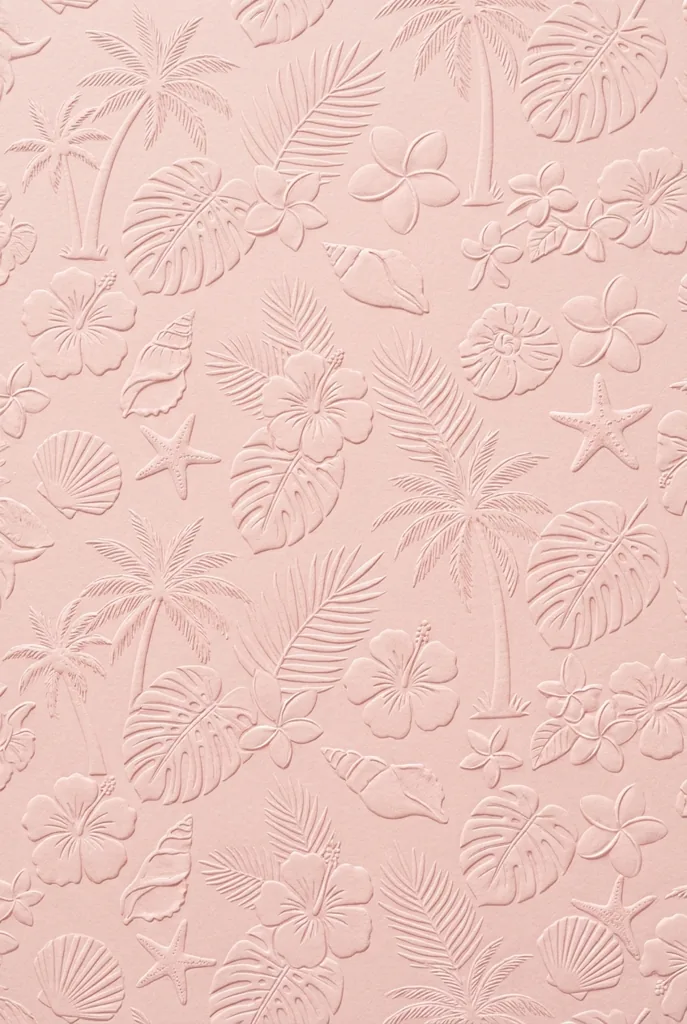
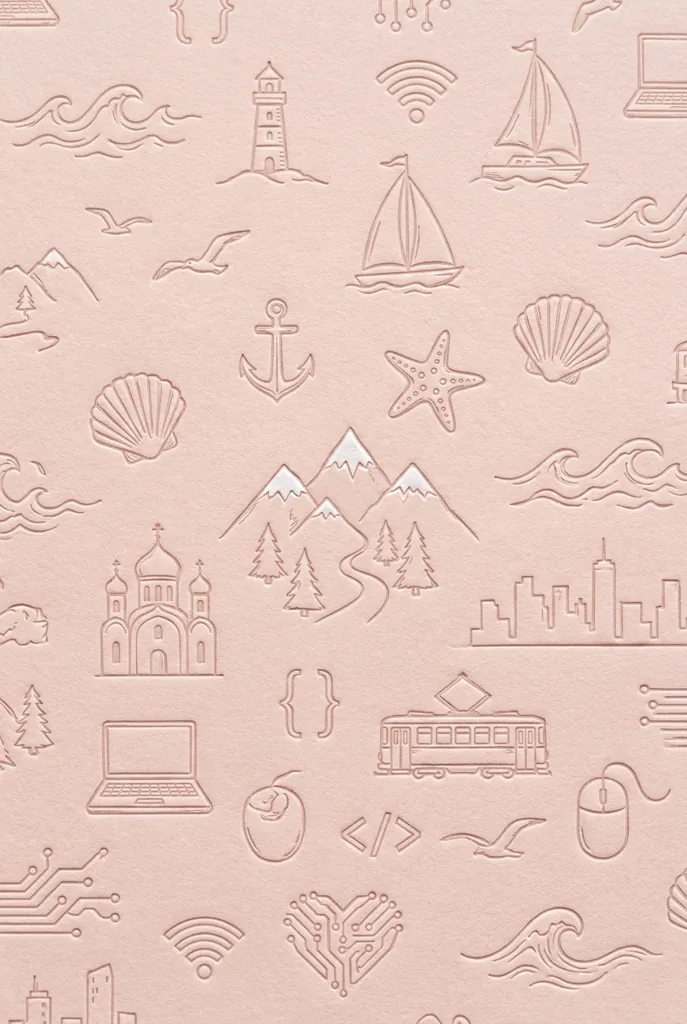
feat: personalised envelope art (Burgas sea, Vitosha, Sofia, IT) + matching seal
- new blind-emboss paper and mountain/sea wreath seal from Gemini (v2 run)
- raised light-gold initials for the darker bronze seal
- tropical set and other variants kept under assets/alt
- cache-busting ?v=2 on asset URLs

diff --git a/styles.css b/styles.css
@@ -57,7 +57,7 @@ body {
   background-size: cover;
   background-position: center;
 }
-.has-paper .paper { background-image: url("assets/paper.webp"); }
+.has-paper .paper { background-image: url("assets/paper.webp?v=2"); }
 
 /* ---------- Envelope interior + light ---------- */
 /* Only visible through the V where the flap was: deep orange at the edges,
@@ -233,7 +233,7 @@ body {
   background-size: min(100vw, 480px) auto;
   background-position: top center;
 }
-.has-paper .flap-front::before { background-image: url("assets/paper.webp"); }
+.has-paper .flap-front::before { background-image: url("assets/paper.webp?v=2"); }
 
 .flap-inside { transform: rotateX(180deg); }
 .flap-inside::before {
@@ -271,9 +271,9 @@ body {
 .has-seal .seal-wax {
   inset: 0;
   border-radius: 0;
-  background: url("assets/seal.webp") center / contain no-repeat;
+  background: url("assets/seal.webp?v=2") center / contain no-repeat;
   box-shadow: none;
-  filter: drop-shadow(0 8px 10px rgba(90, 45, 20, .35));
+  filter: brightness(1.12) saturate(1.1) drop-shadow(0 8px 10px rgba(90, 45, 20, .35));
 }
 
 .seal-shine {
@@ -306,13 +306,13 @@ body {
   line-height: 1;
   padding-top: 2%;
   white-space: nowrap;
-  color: #4a2c05;
-  /* pressed into the wax: dark rim above, warm highlight below, soft inner shade */
+  color: #e9cf8a;
+  /* raised gold on the darker bronze centre: light top edge, dark cast shadow below */
   text-shadow:
-    0 -1px 0 rgba(40, 20, 0, .7),
-    0 1.5px 0 rgba(255, 226, 150, .85),
-    0 0 6px rgba(60, 30, 0, .25);
-  -webkit-text-stroke: .4px rgba(40, 20, 0, .5);
+    0 -1px 0 rgba(255, 244, 205, .55),
+    0 1.5px 1px rgba(30, 15, 0, .85),
+    0 0 8px rgba(30, 15, 0, .35);
+  -webkit-text-stroke: .3px rgba(60, 35, 5, .6);
   pointer-events: none;
 }
 
@@ -329,8 +329,8 @@ body {
 .has-seal .seal-shine {
   inset: 0;
   border-radius: 0;
-  -webkit-mask: url("assets/seal.webp") center / contain no-repeat;
-          mask: url("assets/seal.webp") center / contain no-repeat;
+  -webkit-mask: url("assets/seal.webp?v=2") center / contain no-repeat;
+          mask: url("assets/seal.webp?v=2") center / contain no-repeat;
 }
 
 /* Lit-from-within layer: a brightened, high-contrast copy of the seal, so the raised
@@ -343,7 +343,7 @@ body {
   pointer-events: none;
 }
 .has-seal .seal-lit {
-  background: url("assets/seal-lines.webp") center / contain no-repeat;
+  background: url("assets/seal-lines.webp?v=2") center / contain no-repeat;
   filter: brightness(1.4) drop-shadow(0 0 1.5px rgba(255, 252, 240, 1)) drop-shadow(0 0 5px rgba(255, 230, 160, .9)) drop-shadow(0 0 12px rgba(255, 200, 100, .6));
 }
 .seal-glow {
@@ -438,7 +438,7 @@ body {
   position: absolute;
   inset: 0;
   pointer-events: none;
-  background: url("assets/seal.webp") center / contain no-repeat;
+  background: url("assets/seal.webp?v=2") center / contain no-repeat;
   filter: brightness(1.45) saturate(.45) drop-shadow(0 0 14px rgba(255, 215, 150, .75));
   --sweep-dur: 1.9s;
   --sweep-delay: .9s;

diff --git a/index.html b/index.html
@@ -9,9 +9,9 @@
   <link rel="preconnect" href="https://fonts.gstatic.com" crossorigin>
   <link href="https://fonts.googleapis.com/css2?family=Ballet:opsz@16..72&family=Cormorant+Garamond:ital,wght@0,400;0,500;1,400;1,500;1,600&display=swap" rel="stylesheet">
   <link rel="stylesheet" href="styles.css">
-  <link rel="preload" as="image" href="assets/paper.webp">
-  <link rel="preload" as="image" href="assets/seal.webp">
-  <link rel="preload" as="image" href="assets/seal-lines.webp">
+  <link rel="preload" as="image" href="assets/paper.webp?v=2">
+  <link rel="preload" as="image" href="assets/seal.webp?v=2">
+  <link rel="preload" as="image" href="assets/seal-lines.webp?v=2">
 </head>
 <body>
   <main class="stage" id="stage">

diff --git a/main.js b/main.js
@@ -29,8 +29,8 @@
     img.onload = () => root.classList.add(cls);
     img.src = src;
   };
-  useImage("assets/paper.webp", "has-paper");
-  useImage("assets/seal.webp", "has-seal");
+  useImage("assets/paper.webp?v=2", "has-paper");
+  useImage("assets/seal.webp?v=2", "has-seal");
 
   // ---- Gold sparkles for the dissolve ----
   const sparkles = document.getElementById("sparkles");

diff --git a/README.md b/README.md
@@ -8,11 +8,14 @@ Mobile-first digital wedding invitation. Static HTML/CSS/JS, no build step.
 ## Structure
 - `index.html`, `styles.css`, `main.js` — the page
 - `config.js` — names, initials, date, optional music (edit this per couple)
-- `assets/` — generated art (paper texture, wax seal); `assets/alt/` holds unused variants
+- `assets/` — generated art: paper (Burgas sea + Vitosha + Sofia + IT motifs), wax seal (mountain/sea wreath), `seal-lines.webp` (glow layer)
+- `assets/alt/` — unused variants: `tropical/` set, `paper-landscape-c.webp` (phase-2 candidate), other papers/seals
+- `tools/seal_lines.py` — extracts the engraving ridges of a seal for the light-up glow
+- After replacing an asset, bump the `?v=` query in styles.css / index.html / main.js
 - `tools/cutout_seal.py` — removes the white background from a generated seal
 
 ## Phases
-1. ✅ Envelope: embossed paper, gold wax seal with initials, tap → seal pops, flap flips open in 3D, golden light, letter rises
+1. ✅ Envelope: embossed paper, gold wax seal М&Г; tap → light rises through the seal, washes it cream, seams glow, flap lifts away with the seal, light pours out, dissolve to cream with sparkles
 2. Illustrated hero / letter expands full screen (parallax)
 3. Scratch-to-reveal date, venue, RSVP
 
